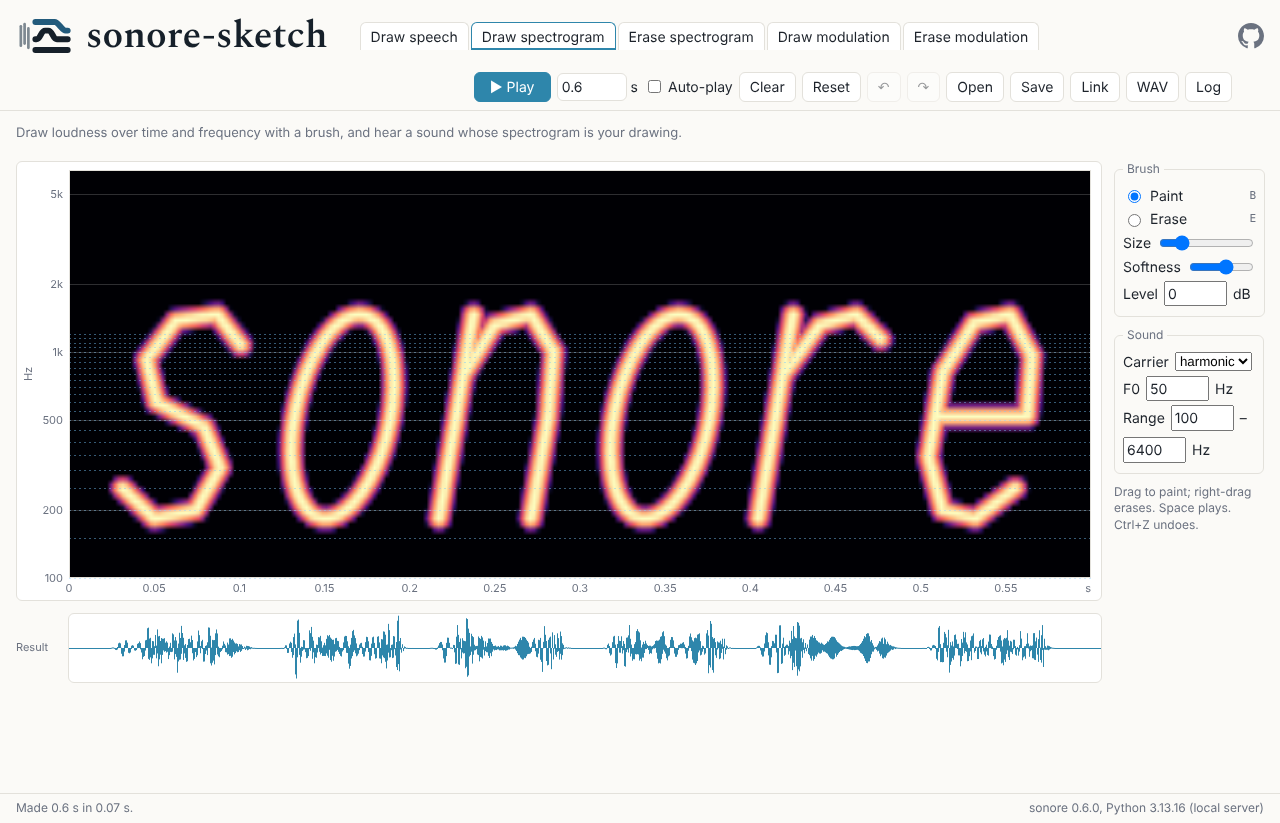
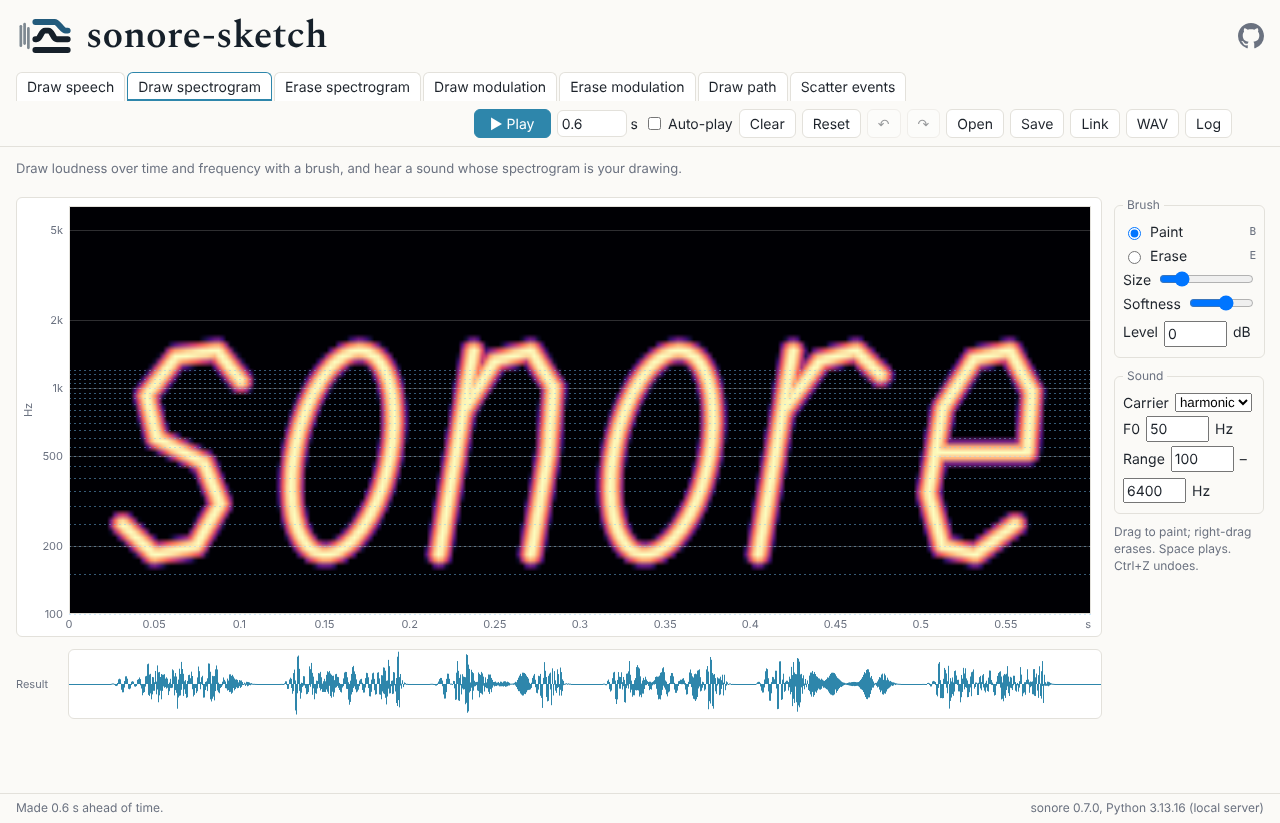
README screenshots: retake them, Draw path third
The third screenshot now shows the Draw path tab (linked with #tab=draw-path)
instead of Draw modulation; tools/make_screenshots.py takes it.

Claude-Session: https://claude.ai/code/session_01VRBdSnmmHXjqBvDKgkQQJ7

diff --git a/tools/make_screenshots.py b/tools/make_screenshots.py
@@ -1,4 +1,4 @@
-"""Take the README's screenshots: Draw speech, Draw spectrogram and Draw modulation.
+"""Take the README's screenshots: Draw speech, Draw spectrogram and Draw path.
 
 Each tab is shown as it opens (its example), 1280 × 823, with the local
 engine, and saved to docs/screenshots/. Retake them when the header, the
@@ -24,7 +24,7 @@ from playwright.sync_api import sync_playwright
 
 ROOT = Path(__file__).resolve().parents[1]
 SETTLE_S = 12
-SHOTS = {"tracks": "draw-speech.png", "painted": "draw-spectrogram.png", "blobs": "draw-modulation.png"}
+SHOTS = {"tracks": "draw-speech.png", "painted": "draw-spectrogram.png", "paths": "draw-path.png"}
 
 
 def free_port() -> int:

diff --git a/README.md b/README.md
@@ -21,7 +21,7 @@ that makes every sound here, can do, each sound playable next to its plots.
 <table><tr>
 <td width="33%"><a href="https://choyun1.github.io/sonore-sketch/#tab=draw-speech"><img alt="The Draw speech tab: formant tracks over the spectrogram of sonore saying its name, with the F0 and voicing tracks below" src="docs/screenshots/draw-speech.png"></a><br><sub><b>Draw speech</b>: formant, F0, voicing and noise tracks, spoken by Klatt's synthesizer</sub></td>
 <td width="33%"><a href="https://choyun1.github.io/sonore-sketch/#tab=draw-spectrogram"><img alt="The Draw spectrogram tab: &quot;sonore&quot; written by hand on a spectrogram, and the waveform of the sound it makes" src="docs/screenshots/draw-spectrogram.png"></a><br><sub><b>Draw spectrogram</b>: a sound whose spectrogram is the painting</sub></td>
-<td width="33%"><a href="https://choyun1.github.io/sonore-sketch/#tab=draw-modulation"><img alt="The Draw modulation tab: one blob on a modulation spectrum, and the spectrogram of the sound it makes, confined to one band round 500 Hz" src="docs/screenshots/draw-modulation.png"></a><br><sub><b>Draw modulation</b>: blobs on a modulation spectrum, confined to bands</sub></td>
+<td width="33%"><a href="https://choyun1.github.io/sonore-sketch/#tab=draw-path"><img alt="The Draw path tab: a path drawn round the listener, seen from above, from front left to front right, with the elevation track and the waveform of the sound below" src="docs/screenshots/draw-path.png"></a><br><sub><b>Draw path</b>: a sound moving round your head, for headphones</sub></td>
 </tr></table>
 
 sonore-sketch is under active development, and so is sonore. A saved
